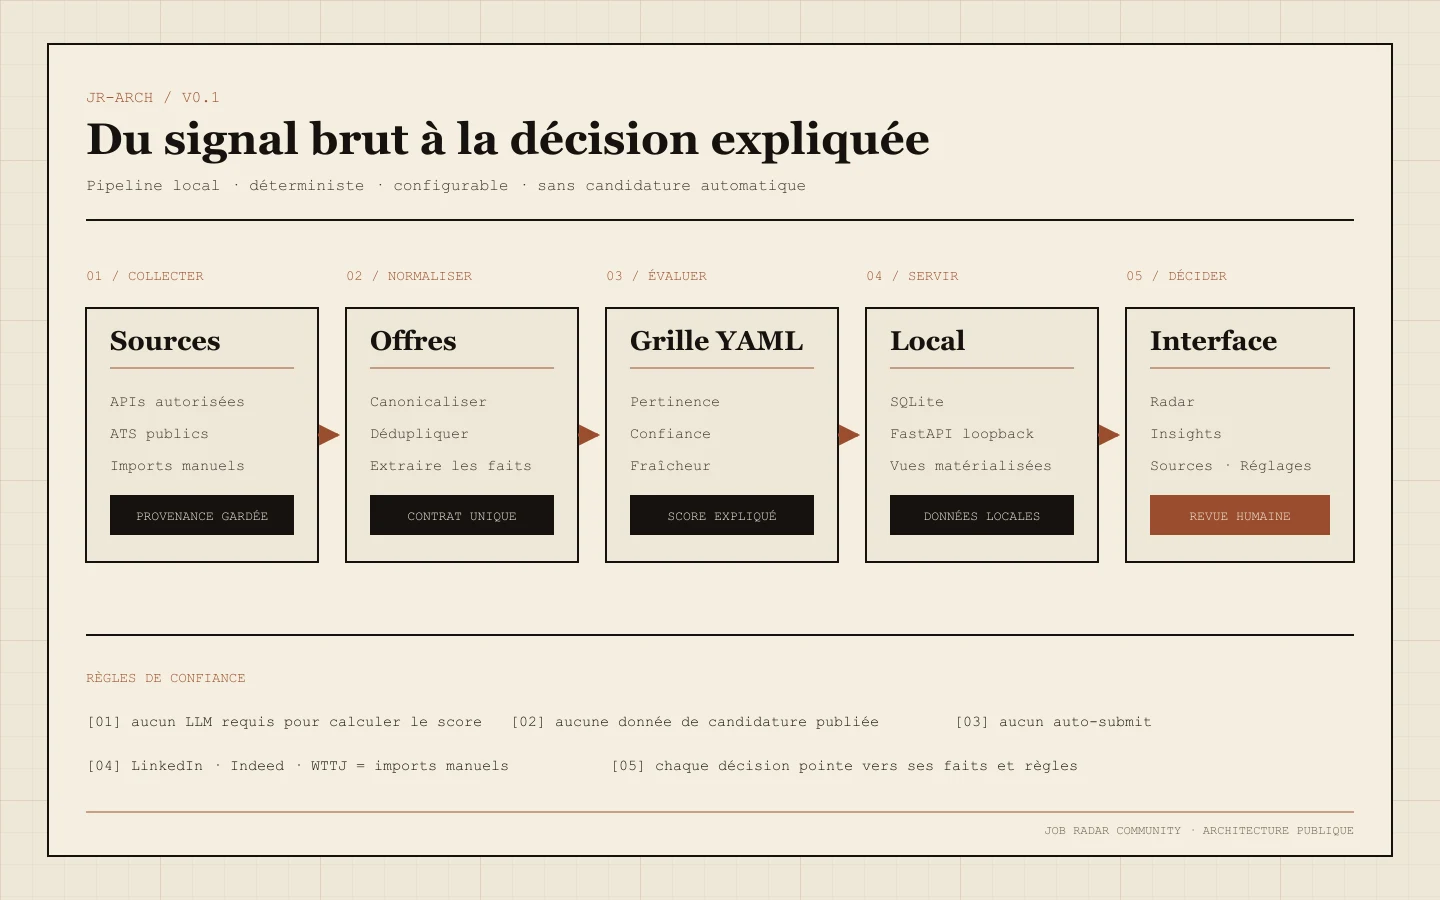
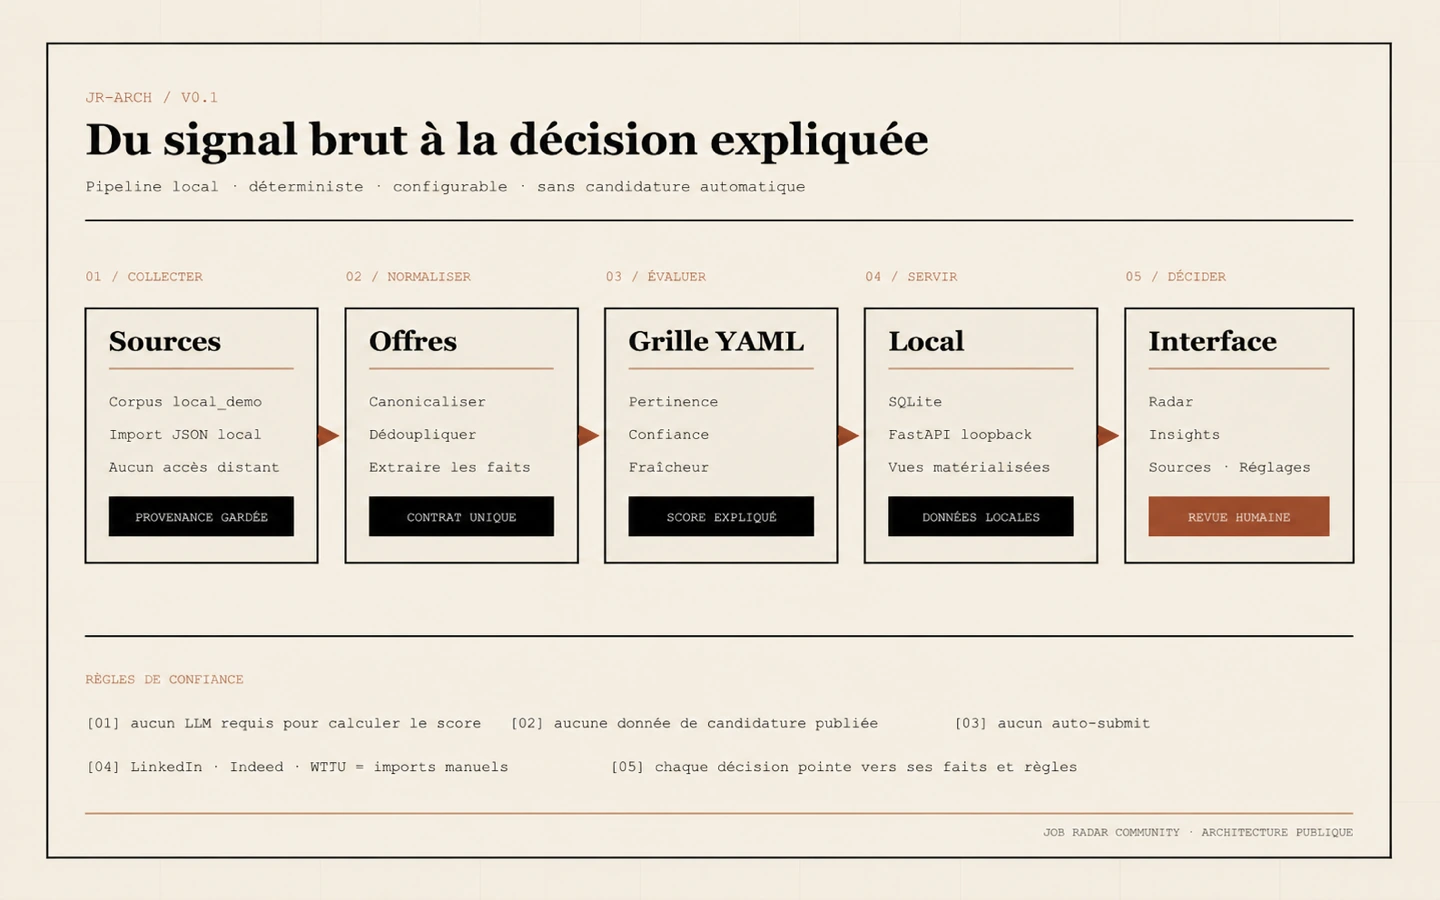
fix: align Job Radar public evidence

diff --git a/lib/projects.ts b/lib/projects.ts
@@ -211,7 +211,7 @@ export const projects: Project[] = [
     },
     architectureImage: {
       src: "/assets/proof/job-radar/architecture.webp",
-      caption: "Schéma de la cible d'architecture : dans la beta livrée, les entrées se limitent au corpus hors ligne local_demo ou à un import JSON local normalisé ; les sources distantes représentées restent futures.",
+      caption: "Schéma de l'architecture livrée : corpus hors ligne local_demo ou import JSON local normalisé, sans accès distant dans cette beta.",
       width: 1440,
       height: 900
     },
@@ -220,7 +220,7 @@ export const projects: Project[] = [
     repoStatus: "Repo public MIT : github.com/Jonassuhard/job-radar-community",
     liveLabel: "Repo GitHub et release v0.1.0-beta.1",
     evidenceNote:
-      "La preuve v0.1.0-beta.1 rapporte 234 tests backend, 30 tests frontend et 37 tests E2E sans échec ; 8 scénarios E2E sont ignorés intentionnellement. Axe et responsive ont été contrôlés sur 20 combinaisons route/viewport, sans violation ni débordement.",
+      "La preuve v0.1.0-beta.1 rapporte 336 tests backend, 36 tests frontend et 37 tests E2E sans échec ; 8 scénarios E2E sont ignorés intentionnellement. Axe et responsive ont été contrôlés sur 20 combinaisons route/viewport, sans violation ni débordement.",
     metaDescription:
       "Job Radar Community classe des offres d'emploi avec un score configurable et explicable, en local, sans CV publié ni auto-candidature.",
     cardLine:
@@ -261,7 +261,7 @@ export const projects: Project[] = [
       "Qualité du classement sur un corpus professionnel réel : la démonstration publique utilise 42 offres fictives."
     ],
     proofLine:
-      "La preuve publique v0.1.0-beta.1 rapporte 234 tests backend, 30 tests frontend et 37 tests E2E sans échec, ainsi que 20 combinaisons route/viewport sans violation Axe ni débordement.",
+      "La preuve publique v0.1.0-beta.1 rapporte 336 tests backend, 36 tests frontend et 37 tests E2E sans échec, ainsi que 20 combinaisons route/viewport sans violation Axe ni débordement.",
     summary:
       "Job Radar Community est un radar d'offres local et configurable. Il normalise les annonces, retire les doublons et explique séparément la pertinence, la confiance et la fraîcheur, sans publier le CV ni envoyer de candidature.",
     stack: ["Python", "FastAPI", "React", "SQLite", "Pydantic", "Playwright"],
@@ -306,7 +306,7 @@ export const projects: Project[] = [
       "Contrats de sécurité, audits publics et archive de release reproductible."
     ],
     results: [
-      "234 tests backend, 30 tests frontend et 37 tests E2E réussis ; 8 scénarios E2E ignorés intentionnellement.",
+      "336 tests backend, 36 tests frontend et 37 tests E2E réussis ; 8 scénarios E2E ignorés intentionnellement.",
       "20 combinaisons route/viewport contrôlées à 320, 390, 768, 1024 et 1440 px, sans violation Axe ni débordement.",
       "Audits de l'arbre public, de l'historique propre, de l'archive, des distributions Python, des dépendances et des captures : zéro finding déclaré dans la preuve v0.1.0-beta.1.",
       "Corpus de démonstration de 42 offres fictives utilisable hors ligne et sans clé API."

diff --git a/lib/faq.ts b/lib/faq.ts
@@ -37,7 +37,7 @@ export const faqItems: FaqItem[] = [
   },
   {
     q: "Quels résultats mesurés peut-on citer ?",
-    a: "Job Radar Community v0.1.0-beta.1 : preuve publique d'une validation locale avec 234 tests backend, 30 tests frontend et 37 tests E2E sans échec, plus 20 combinaisons route/viewport sans violation Axe ni débordement ; 8 scénarios E2E sont ignorés intentionnellement et aucune adoption externe n'est revendiquée. Cortex Bridge v0.5.3 : preuve publique du tag datée du 26/08/2026 avec 629 tests backend, 155 frontend, 126 extension, 12 E2E et 4 accessibilité sans échec ; un test E2E est ignoré, la compatibilité continue avec ChatGPT n'est pas prouvée et le cycle macOS propre n'a pas été rejoué. Les Petites Griffes : audit privé du 01/08/2026 couvrant 18 pages, 36 captures et cinq scores Lighthouse mobile ; projet familial non facturé, sans vente externe prouvée. Cool Bank / La Herse : V2 au statut LOCAL_SINGLE_DEVICE_READY mais non prête en ligne ; V3 au statut READY_FOR_HUMAN_RECIPE mais pas GO_PILOTE_LOCAL. Les captures publiées ne contiennent aucune donnée de mineur."
+    a: "Job Radar Community v0.1.0-beta.1 : preuve publique d'une validation locale avec 336 tests backend, 36 tests frontend et 37 tests E2E sans échec, plus 20 combinaisons route/viewport sans violation Axe ni débordement ; 8 scénarios E2E sont ignorés intentionnellement et aucune adoption externe n'est revendiquée. Cortex Bridge v0.5.3 : preuve publique du tag datée du 26/08/2026 avec 629 tests backend, 155 frontend, 126 extension, 12 E2E et 4 accessibilité sans échec ; un test E2E est ignoré, la compatibilité continue avec ChatGPT n'est pas prouvée et le cycle macOS propre n'a pas été rejoué. Les Petites Griffes : audit privé du 01/08/2026 couvrant 18 pages, 36 captures et cinq scores Lighthouse mobile ; projet familial non facturé, sans vente externe prouvée. Cool Bank / La Herse : V2 au statut LOCAL_SINGLE_DEVICE_READY mais non prête en ligne ; V3 au statut READY_FOR_HUMAN_RECIPE mais pas GO_PILOTE_LOCAL. Les captures publiées ne contiennent aucune donnée de mineur."
   },
   {
     q: "Quelle est sa stack technique ?",

diff --git a/lib/verification.ts b/lib/verification.ts
@@ -94,20 +94,20 @@ export const verificationItems: VerificationItem[] = [
     claim: "Le code de Job Radar Community est public sur GitHub sous licence MIT.",
     scope: "Projet",
     status: "publicly-verified",
-    checkedAt: "2026-08-27",
+    checkedAt: "2026-08-28",
     sourceLabel: "Repo GitHub Job Radar Community",
     sourceHref: "https://github.com/Jonassuhard/job-radar-community",
     note: "L'édition publique est reconstruite sans l'historique, le profil, les candidatures ni les données de la version personnelle."
   },
   {
     id: "job-radar-community-beta-1",
-    claim: "La preuve Job Radar Community v0.1.0-beta.1 rapporte 234 tests backend, 30 tests frontend et 37 tests E2E sans échec ; 8 scénarios E2E sont ignorés intentionnellement. Elle couvre 20 combinaisons route/viewport sans violation Axe ni débordement.",
+    claim: "La preuve Job Radar Community v0.1.0-beta.1 rapporte 336 tests backend, 36 tests frontend et 37 tests E2E sans échec ; 8 scénarios E2E sont ignorés intentionnellement. Elle couvre 20 combinaisons route/viewport sans violation Axe ni débordement.",
     scope: "Projet",
     status: "publicly-verified",
-    checkedAt: "2026-08-27",
+    checkedAt: "2026-08-28",
     sourceLabel: "Preuve Job Radar Community v0.1.0-beta.1",
     sourceHref: "https://github.com/Jonassuhard/job-radar-community/blob/main/docs/verification/v0.1.0-beta.1.json",
-    note: "Preuve publique d'une validation locale datée sur un corpus de 42 offres fictives. Elle ne prouve ni adoption externe, ni candidature obtenue, ni exécution GitHub Actions."
+    note: "Preuve publique d'une validation locale datée sur un corpus de 42 offres fictives, complétée par CI et Security GitHub vertes sur le commit testé. Elle ne prouve ni adoption externe ni candidature obtenue."
   },
   {
     id: "cortex-bridge-repo",

diff --git a/tests/content.test.ts b/tests/content.test.ts
@@ -127,7 +127,7 @@ test("Job Radar publie un contrat produit configurable sans auto-candidature", (
   assert.ok((project.intention?.items.length ?? 0) >= 4);
   assert.match(
     project.architectureImage?.caption ?? "",
-    /beta livrée[\s\S]*local_demo[\s\S]*import JSON local normalisé[\s\S]*sources distantes[\s\S]*futures/i
+    /architecture livrée[\s\S]*local_demo[\s\S]*import JSON local normalisé[\s\S]*sans accès distant[\s\S]*beta/i
   );
   assert.match(project.limits.join("\n"), /pas d.auto-candidature|n.envoie aucune candidature/i);
   assert.match(project.limits.join("\n"), /LinkedIn[\s\S]*Indeed[\s\S]*Welcome to the Jungle/i);
@@ -222,8 +222,8 @@ test("les surfaces publiques et machine citent la même preuve Job Radar", () =>
   assert.ok(verification);
   assert.equal(verification.status, "publicly-verified");
   assert.match(verification.sourceHref ?? "", /job-radar-community[\s\S]*v0\.1\.0-beta\.1\.json/);
-  assert.match(verification.claim, /234 tests backend/);
-  assert.match(verification.claim, /30 tests frontend/);
+  assert.match(verification.claim, /336 tests backend/);
+  assert.match(verification.claim, /36 tests frontend/);
   assert.match(verification.claim, /37 tests E2E/);
 });
 

diff --git a/public/profile.md b/public/profile.md
@@ -55,7 +55,7 @@ Paris, France. CDI à Paris ou hybride, disponible à partir du 1er septembre 20
 
 ## Projets principaux
 
-- Job Radar Community : radar d'offres local, configurable et open source. Il normalise les annonces, retire les doublons et explique séparément pertinence, confiance et fraîcheur, sans publier le CV ni envoyer de candidature. La preuve v0.1.0-beta.1 rapporte 234 tests backend, 30 tests frontend et 37 tests E2E sans échec, plus 20 combinaisons route/viewport sans violation Axe ni débordement ; 8 scénarios E2E sont ignorés intentionnellement. Le corpus public contient 42 offres fictives et LinkedIn, Indeed et Welcome to the Jungle restent manual_only.
+- Job Radar Community : radar d'offres local, configurable et open source. Il normalise les annonces, retire les doublons et explique séparément pertinence, confiance et fraîcheur, sans publier le CV ni envoyer de candidature. La preuve v0.1.0-beta.1 rapporte 336 tests backend, 36 tests frontend et 37 tests E2E sans échec, plus 20 combinaisons route/viewport sans violation Axe ni débordement ; 8 scénarios E2E sont ignorés intentionnellement. Le corpus public contient 42 offres fictives et LinkedIn, Indeed et Welcome to the Jungle restent manual_only.
 - Cortex Bridge : agent de code local open source qui utilise ChatGPT comme cerveau. ChatGPT analyse et planifie ; l'utilisateur valide ; Cortex exécute dans le dossier choisi et garde une trace. Le tag public v0.5.3 rapporte 629 tests backend, 155 frontend, 126 extension, 12 E2E et 4 accessibilité sans échec ; 1 E2E est ignoré. La preview macOS/Chrome est optionnelle, non affiliée à OpenAI ; le cycle macOS propre n'a pas été rejoué pour ce tag.
 - Les Petites Griffes : L'audit live du 2026-08-01 couvre 18 pages publiques contrôlées à 390 px et 1440 px, 36 captures pleine page, 30 images uniques chargées sur le live et cinq scores de performance Lighthouse mobile : Accueil 91, Galerie 87, Compose 97, Méthode 97, Le studio 66. Projet familial non facturé ; aucune vente à un client externe n'est prouvée ; mesures datées du 2026-08-01, non continues. Audit complet privé, montrable en entretien ; il n'est pas publié comme preuve publique autonome.
 - Cool Bank / La Herse : banque de classe transformée en monde 3D avec trois rôles. La V2 est déjà jouable localement sur un appareil ; la V3 est une reconstruction séparée plus large, encore en recette humaine. Les captures publiées sont des écrans de démonstration sans donnée de mineur.
@@ -73,7 +73,7 @@ Paris, France. CDI à Paris ou hybride, disponible à partir du 1er septembre 20
 
 - Registre des preuves : https://jonassuhard.com/preuves
 - Revue générale des contenus : 2026-08-28
-- Job Radar Community : preuve v0.1.0-beta.1 vérifiée le 2026-08-27
+- Job Radar Community : preuve v0.1.0-beta.1 vérifiée le 2026-08-28
 - Cortex Bridge : tag v0.5.3 vérifié le 2026-08-26
 - Cool Bank V2 : vérifiée le 2026-08-22
 - Cool Bank V3 : parcours visuels vérifiés le 2026-08-26

diff --git a/public/projects/job-radar.md b/public/projects/job-radar.md
@@ -38,7 +38,7 @@ Le radar transforme les annonces en faits comparables, applique une grille YAML 
 
 ## Architecture
 
-![Schéma de la cible d'architecture : dans la beta livrée, les entrées se limitent au corpus hors ligne local_demo ou à un import JSON local normalisé ; les sources distantes représentées restent futures.](/assets/proof/job-radar/architecture.webp)
+![Schéma de l'architecture livrée : corpus hors ligne local_demo ou import JSON local normalisé, sans accès distant dans cette beta.](/assets/proof/job-radar/architecture.webp)
 
 - La beta publique reçoit uniquement le corpus hors ligne local_demo, fourni, ou un import JSON local normalisé ; elle ne livre aucun connecteur distant.
 - Le noyau Python normalise, canonicalise, déduplique et extrait les faits avant d'appliquer la configuration YAML.
@@ -55,13 +55,13 @@ Le radar transforme les annonces en faits comparables, applique une grille YAML 
 
 ## Ce que ça prouve
 
-La preuve publique v0.1.0-beta.1 rapporte 234 tests backend, 30 tests frontend et 37 tests E2E sans échec, ainsi que 20 combinaisons route/viewport sans violation Axe ni débordement.
+La preuve publique v0.1.0-beta.1 rapporte 336 tests backend, 36 tests frontend et 37 tests E2E sans échec, ainsi que 20 combinaisons route/viewport sans violation Axe ni débordement.
 
 - Transformer un besoin personnel en produit générique configurable et documenté.
 - Concevoir un pipeline déterministe où chaque décision peut être reliée à une règle et à un extrait source.
 - Préparer une publication open source sans historique privé, secret, CV ni donnée de candidature.
 
-La preuve v0.1.0-beta.1 rapporte 234 tests backend, 30 tests frontend et 37 tests E2E sans échec ; 8 scénarios E2E sont ignorés intentionnellement. Axe et responsive ont été contrôlés sur 20 combinaisons route/viewport, sans violation ni débordement.
+La preuve v0.1.0-beta.1 rapporte 336 tests backend, 36 tests frontend et 37 tests E2E sans échec ; 8 scénarios E2E sont ignorés intentionnellement. Axe et responsive ont été contrôlés sur 20 combinaisons route/viewport, sans violation ni débordement.
 
 ## Visuels
 
@@ -76,7 +76,7 @@ La preuve v0.1.0-beta.1 rapporte 234 tests backend, 30 tests frontend et 37 test
 
 ## Résultats vérifiés
 
-- 234 tests backend, 30 tests frontend et 37 tests E2E réussis ; 8 scénarios E2E ignorés intentionnellement.
+- 336 tests backend, 36 tests frontend et 37 tests E2E réussis ; 8 scénarios E2E ignorés intentionnellement.
 - 20 combinaisons route/viewport contrôlées à 320, 390, 768, 1024 et 1440 px, sans violation Axe ni débordement.
 - Audits de l'arbre public, de l'historique propre, de l'archive, des distributions Python, des dépendances et des captures : zéro finding déclaré dans la preuve v0.1.0-beta.1.
 - Corpus de démonstration de 42 offres fictives utilisable hors ligne et sans clé API.
